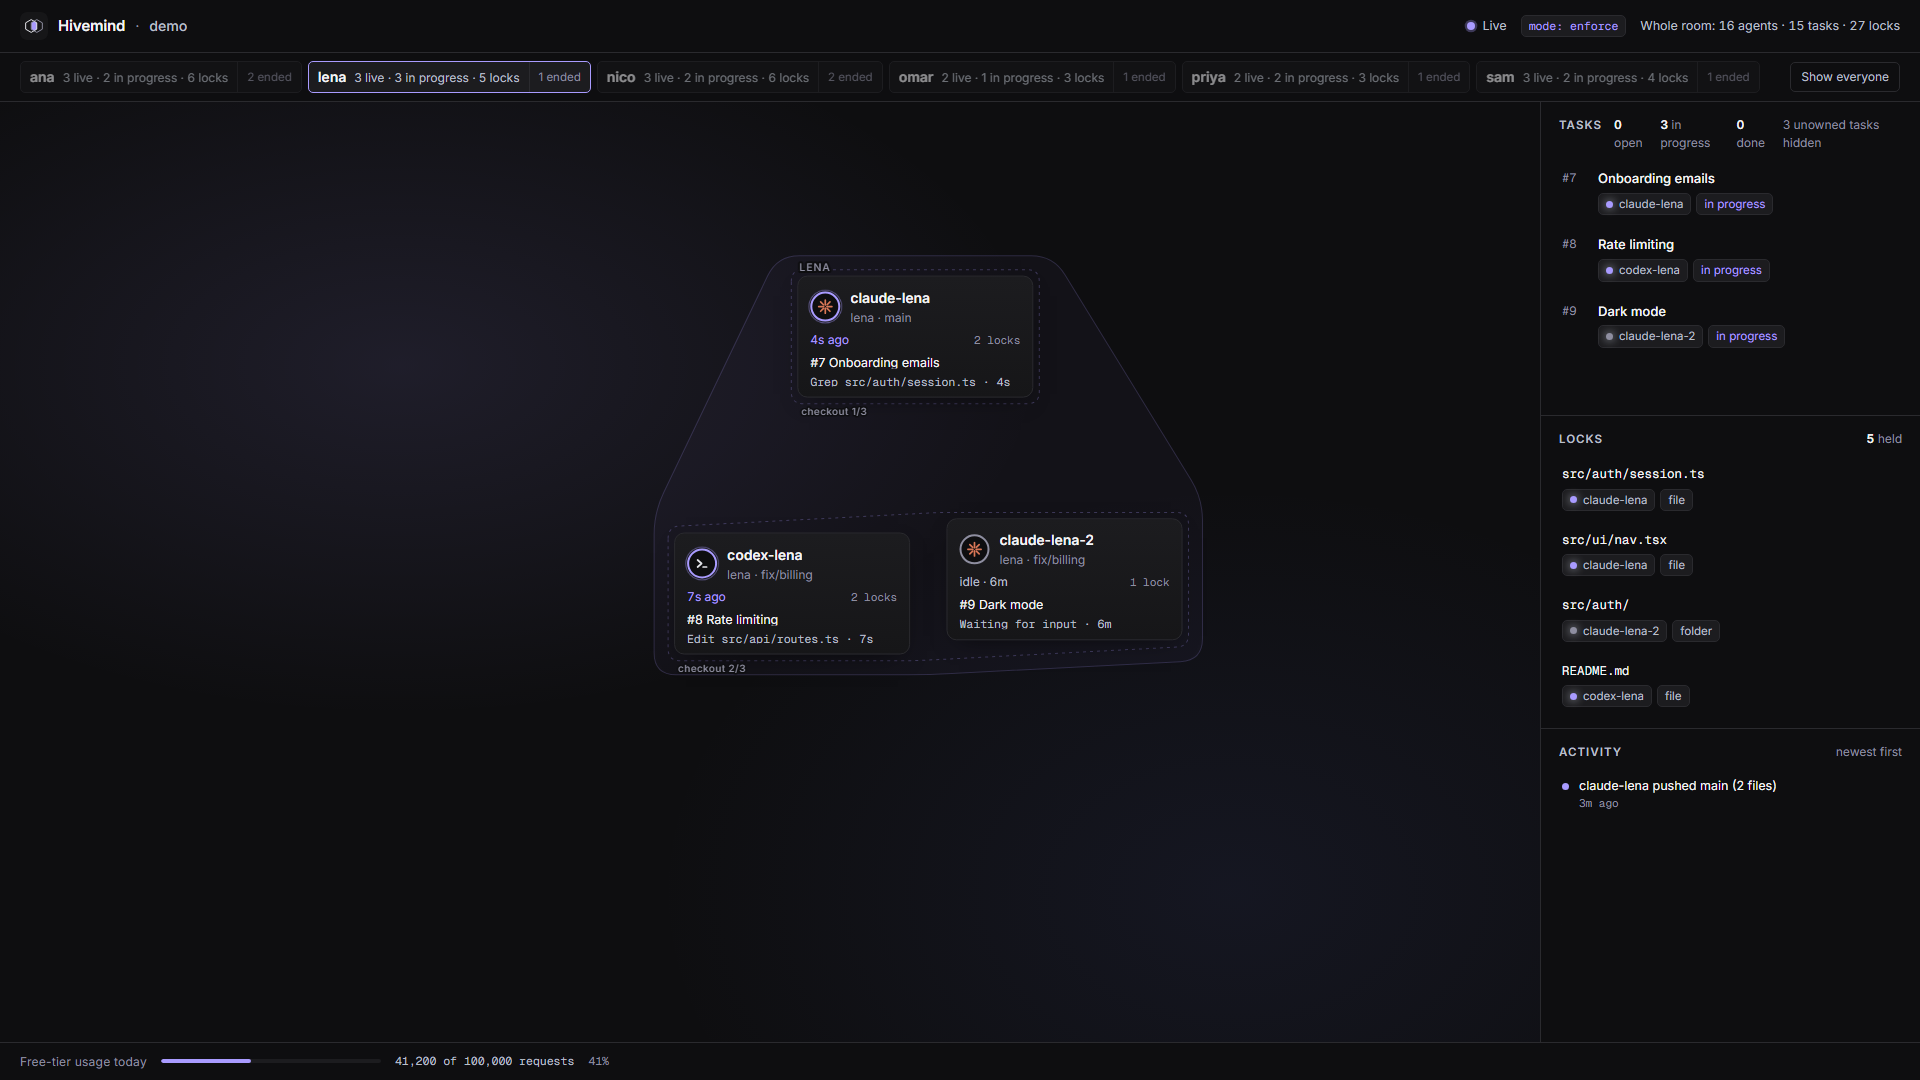
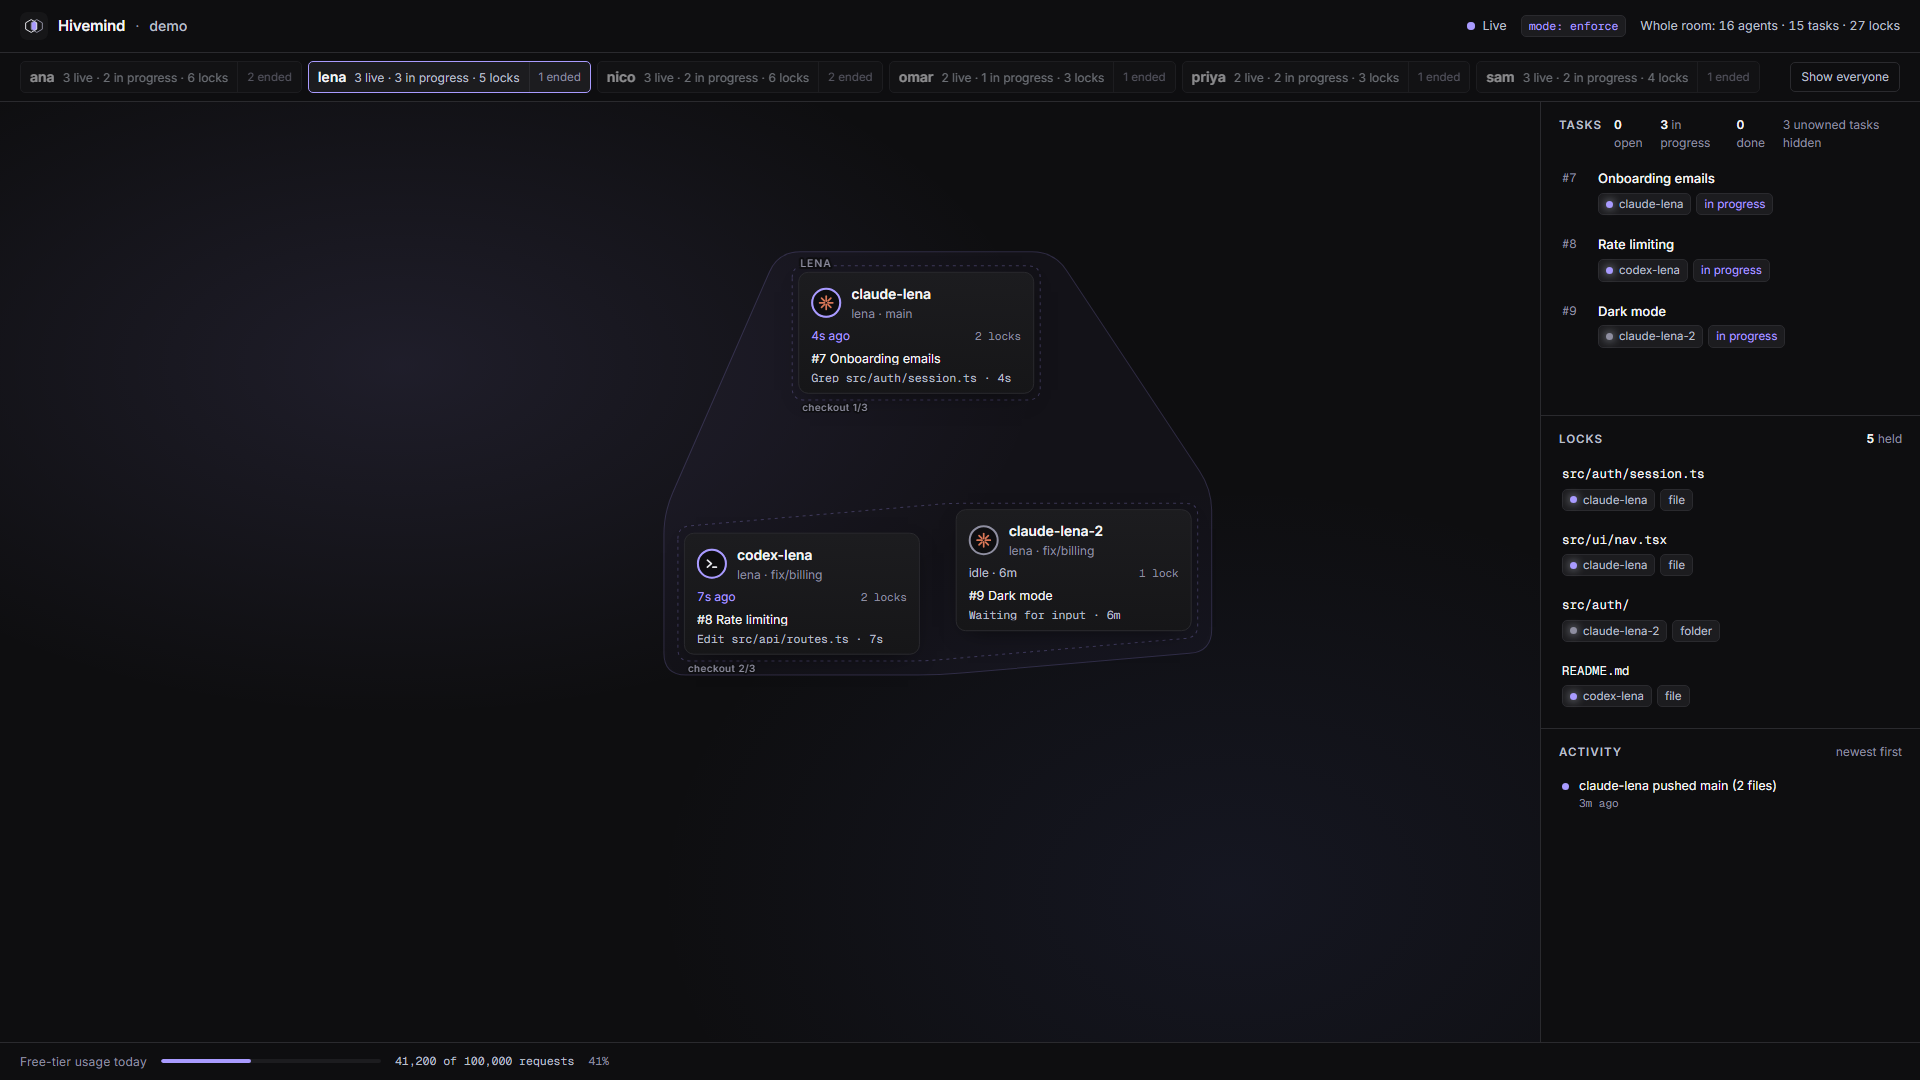
Dashboard people: restore cached layout on clear, pill behind blocked label

diff --git a/dashboard/src/views/graph.ts b/dashboard/src/views/graph.ts
@@ -161,6 +161,8 @@ export function createGraph(): GraphView {
   let measuredKey = '';
   /** Where the cards sat the last time everyone was shown, so focusing a person and clearing doesn't shuffle the graph. */
   let remembered = new Map<string, Point>();
+  /** Finished layouts by roster, frame and card size, so returning to a view restores it exactly. */
+  const layouts = new Map<string, { positions: Map<string, Point>; height: number }>();
 
   function measure(vm: ViewModel, roster: string): void {
     if (boxW === 0) boxW = el.clientWidth || 1000;
@@ -263,7 +265,11 @@ export function createGraph(): GraphView {
         links.append(path);
         if (kind === 'blocked' && e.label) {
           const mid = pointOnQuad(g.a, g.c, g.b, 0.5);
-          labels.append(s('text', { class: 'edge-label', x: mid.x.toFixed(1), y: (mid.y - 7).toFixed(1), 'text-anchor': 'middle' }, `blocked: ${truncate(e.label, 28)}`));
+          const text = `blocked: ${truncate(e.label, 28)}`;
+          const w = text.length * 6.3 + 10;
+          // A pill behind the text keeps it readable where the edge crosses a card.
+          labels.append(s('rect', { class: 'edge-label-pill', x: (mid.x - w / 2).toFixed(1), y: (mid.y - 19).toFixed(1), width: w.toFixed(1), height: 16, rx: 4 }));
+          labels.append(s('text', { class: 'edge-label', x: mid.x.toFixed(1), y: (mid.y - 7).toFixed(1), 'text-anchor': 'middle' }, text));
         }
       }
     }
@@ -338,8 +344,17 @@ export function createGraph(): GraphView {
     if (key !== layoutKey) {
       layoutKey = key;
       const nodes: LayoutNode[] = vm.agents.map((a) => ({ id: a.callsign, group: a.person, cluster: a.checkout ?? '', w: dims.w, h: dims.h }));
+      const cached = grid ? undefined : layouts.get(key);
       if (grid) positions = grid.positions;
-      else {
+      else if (cached) {
+        // Same roster in the same frame as before (focus then clear): put every card back exactly where it was.
+        positions = new Map(cached.positions);
+        if (cached.height !== frame.height) {
+          frame = { width: frame.width, height: cached.height };
+          stage.style.minHeight = `${frame.height}px`;
+        }
+      } else {
+        const before = key;
         const fit = forceLayoutFit(nodes, layoutLinks(vm.edges), frame, { previous: remembered, pad: hullPad + 18, gap: nodeGap, groupGap: 2 * hullPad + 8 });
         positions = fit.positions;
         if (fit.size.height !== frame.height) {
@@ -347,6 +362,10 @@ export function createGraph(): GraphView {
           stage.style.minHeight = `${frame.height}px`;
         }
         if (new Set(vm.agents.map((a) => a.person)).size > 1) remembered = new Map(positions);
+        const entry = { positions: new Map(positions), height: frame.height };
+        layouts.set(before, entry);
+        layouts.set(JSON.stringify([roster, frame, dims]), entry);
+        if (layouts.size > 24) layouts.delete(layouts.keys().next().value!);
       }
       drawKey = '';
     }

diff --git a/dashboard/src/people.test.ts b/dashboard/src/people.test.ts
@@ -185,3 +185,19 @@ describe('layouts at 30 agents', () => {
     expect(hasOverlap(nodes, gridLayout(nodes, 375, { pad: 13, gap: 14 }).positions)).toBe(false);
   });
 });
+
+describe('layout cache', () => {
+  it('restores identical positions after focus then clear, twice', () => {
+    const g = graphAt(1366);
+    const full = buildViewModel(snap(), NOW);
+    const everyone = shapeViewModel(full, NO_FOCUS);
+    g.update(everyone);
+    const sorted = () => placed(g).sort((a, b) => a[0]!.localeCompare(b[0]!));
+    const before = sorted();
+    for (let i = 0; i < 2; i++) {
+      g.update(shapeViewModel(full, toggleFocus(NO_FOCUS, 'ana')));
+      g.update(everyone);
+      expect(sorted()).toEqual(before);
+    }
+  });
+});

diff --git a/dashboard/src/styles.css b/dashboard/src/styles.css
@@ -1061,3 +1061,9 @@ p {
 .stat-hint {
   color: var(--muted);
 }
+.edge-label-pill {
+  fill: var(--bg);
+  stroke: rgba(242, 113, 107, 0.45);
+  stroke-width: 1;
+  opacity: 0.92;
+}

diff --git a/docs/evidence/dashboard-people.md b/docs/evidence/dashboard-people.md
@@ -23,3 +23,4 @@
 - Layout: message-edge changes no longer re-run the force layout; positions from the last everyone view are remembered across focus and clear; if cards still overlap the frame grows 20% at a time until they don't (`forceLayoutFit`).
 - Labels (person, checkout, blocked file) are drawn in a layer above the cards. The blocked label can now sit over a card's text at 1366x768 where an edge crosses it.
 - Tests added: focus A to B, no-checkout agents, single-checkout people, checkout re-join, Escape and keyboard focus, 30-card overlap and frame growth. The screenshot script also does a focus A to B switch and a clear, and fails on overlap or unplaced cards (15 cases, all clean).
+- Round 2: finished layouts are cached by roster, frame and card size, so focus then clear restores every card exactly (test: two focus/clear cycles give identical transforms); the blocked-file label now has a pill behind it.
